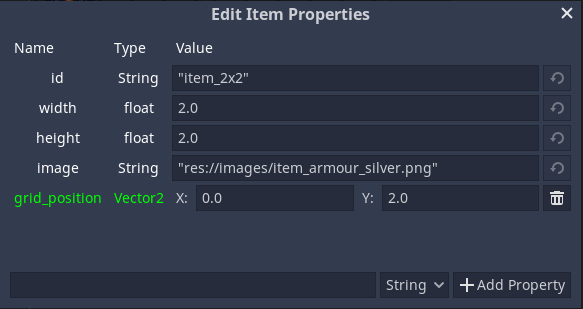
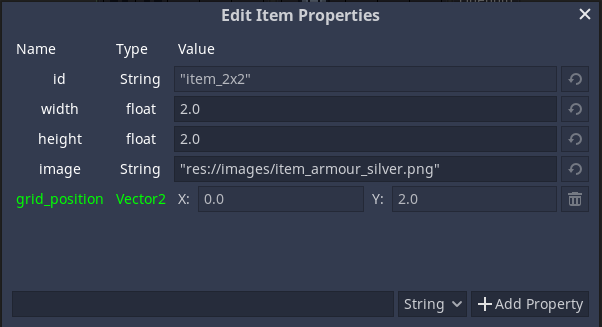
[Docs] Minor update

diff --git a/README.md b/README.md
@@ -210,7 +210,7 @@ if stack_size > 0:
     item.set_property("stack_size", stack_size - 1)
 ```
 
-Item properties can also be modified and overridden using the inspector when an `InventoryItem` is selected. Properties marked with green color represent overridden properties.
+Item properties can also be modified and overridden using the inspector when an `InventoryItem` is selected. Properties marked with green color represent overridden properties. Some properties are disabled for editing, as they are managed by the plugin itself (for example `id` and `grid_position`).
 
 ![](images/screenshots/ss_inspector_inventory_item.png "Editing InventoryItem Properties")
 
